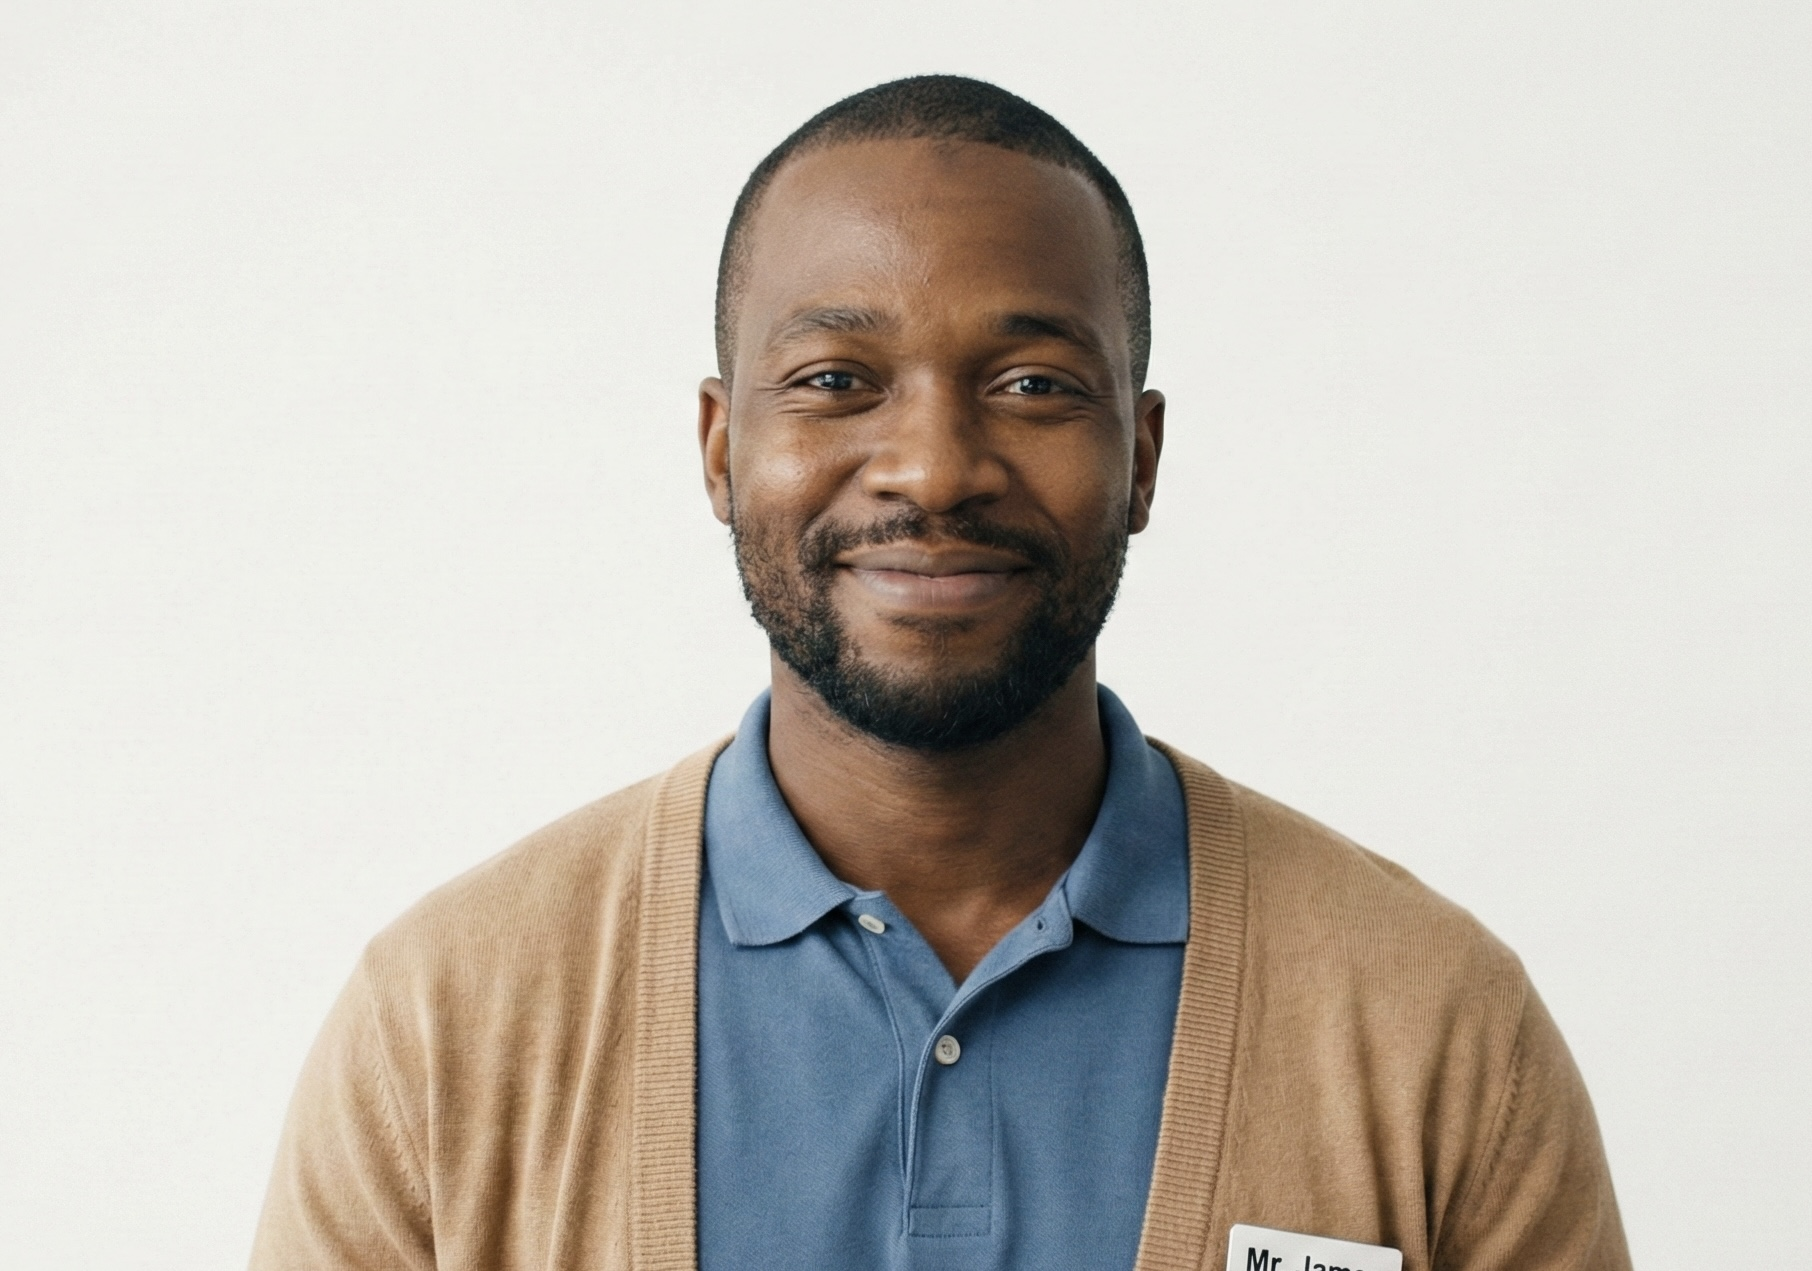
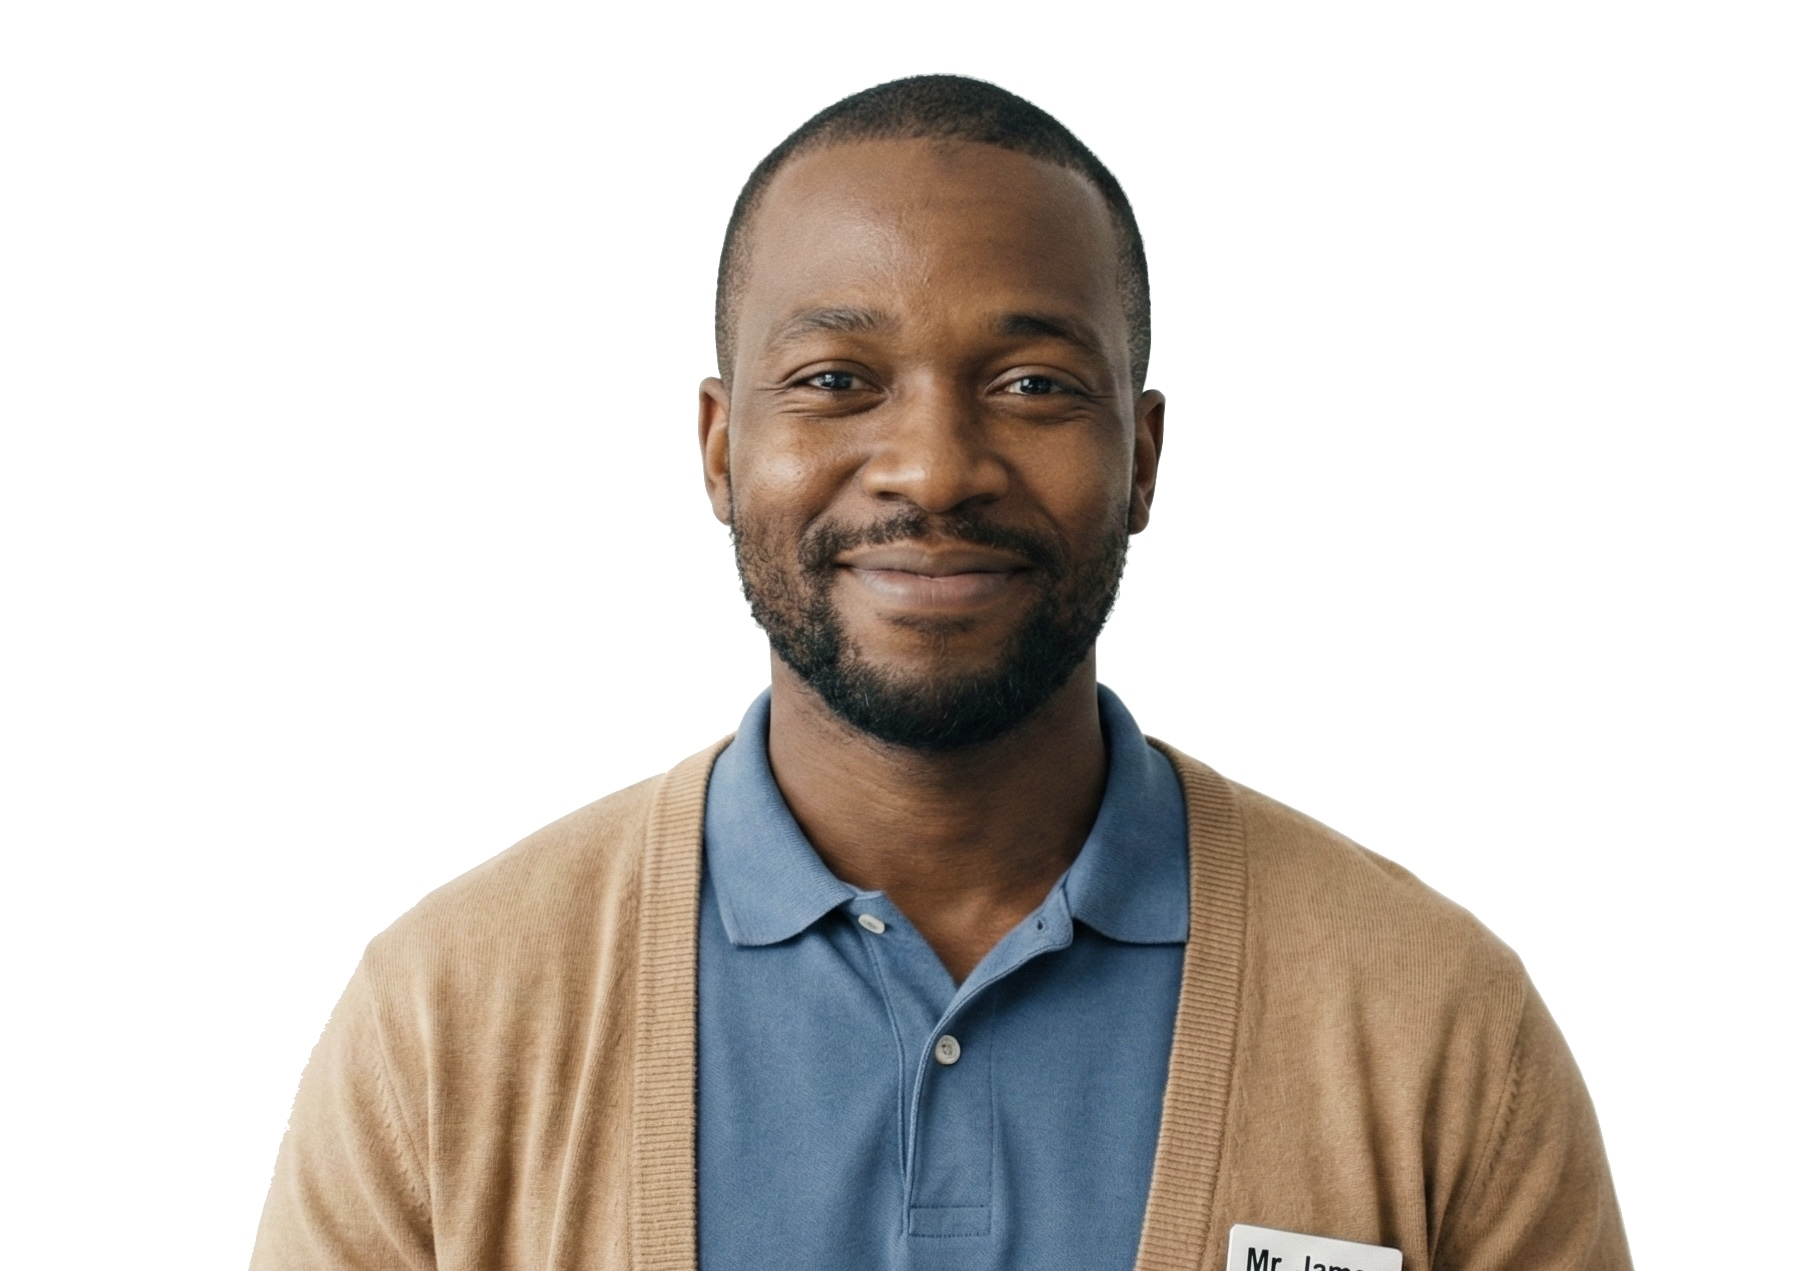
fix: replace tutor poster JPGs with eyes-open versions from PNG
Converted PNG profile images (eyes open) to JPG with white background,
replacing the old JPGs that were video frame captures with eyes closed.
Reverted poster attribute back to .jpg since the JPG files now have the
correct eyes-open images.

diff --git a/src/app/page.tsx b/src/app/page.tsx
@@ -1183,7 +1183,7 @@ function HomePageContent() {
                                 <video
                                   ref={(el) => { videoRefs.current[persona.id] = el; }}
                                   src={`/tutors/${getTutorFileName(persona.id)}_greeting.mp4`}
-                                  poster={`/tutors/${getTutorFileName(persona.id)}.png`}
+                                  poster={`/tutors/${getTutorFileName(persona.id)}.jpg`}
                                   muted
                                   loop
                                   playsInline
@@ -1398,7 +1398,7 @@ function HomePageContent() {
                         <video
                           ref={(el) => { videoRefs.current[`demo-${tutor.id}`] = el; }}
                           src={`/tutors/${getTutorFileName(tutor.id)}_greeting.mp4`}
-                          poster={`/tutors/${getTutorFileName(tutor.id)}.png`}
+                          poster={`/tutors/${getTutorFileName(tutor.id)}.jpg`}
                           muted
                           playsInline
                           preload="metadata"
